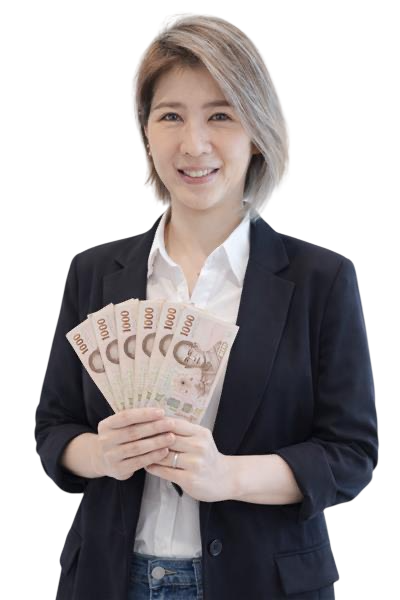
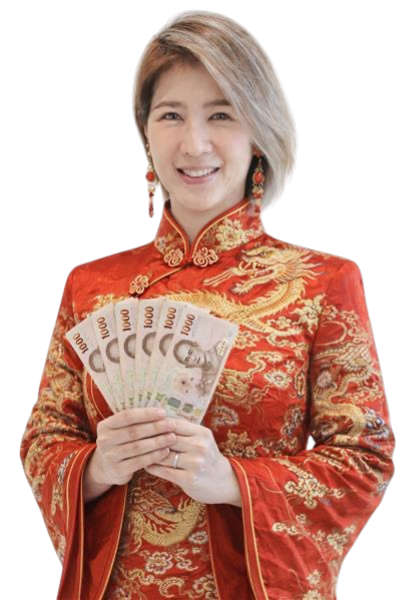
feat: update UI

diff --git a/src/pages/Home.tsx b/src/pages/Home.tsx
@@ -160,7 +160,7 @@ export function Home() {
   if (!isLoggedIn) {
     return (
       <div className="relative flex flex-col items-center justify-center min-h-screen p-4 py-16 overflow-hidden">
-        {/* Background images bottom-right */}
+        {/* Desktop: absolute positioned */}
         <img
           src="/S__35012639.png"
           alt=""
@@ -178,13 +178,17 @@ export function Home() {
             style={{ objectFit: 'cover', objectPosition: 'top', transform: 'scaleX(-1)' }}
           />
         </div>
-        {/* Background image bottom-left */}
-        <img
-          src="/S__35012641.png"
-          alt=""
-          className="absolute bottom-0 hidden pointer-events-none select-none md:block"
-          style={{ objectFit: 'contain', left: '2%', width: 'clamp(200px, 38vw, 1200px)' }}
-        />
+        <div
+          className="absolute bottom-0 hidden overflow-hidden pointer-events-none select-none md:block"
+          style={{ left: '2%', width: 'clamp(300px, 50vw, 1500px)', height: 'clamp(240px, 38vw, 1100px)' }}
+        >
+          <img
+            src="/S__35012641.png"
+            alt=""
+            className="w-full"
+            style={{ objectFit: 'cover', objectPosition: 'top' }}
+          />
+        </div>
 
         {isDemoMode && (
           <div className="fixed top-4 left-1/2 -translate-x-1/2 px-4 py-1.5 rounded-full bg-yellow-500/10 border border-yellow-500/20 z-40">
@@ -199,11 +203,26 @@ export function Home() {
           <p className="text-base font-medium text-white/90">ดวงดีได้เงิน ดวงเฮงได้คำอวยพร จากพี่มะนาว พี่นิโคล และพี่ตั้ม</p>
         </div>
 
-        <EmployeeForm
-          onSubmit={enterAsEmployee}
-          onAdminLogin={loginAdmin}
-          loading={authLoading}
-        />
+        {/* Mobile: 3 images above form */}
+        <div className="relative z-10 flex items-end justify-center w-full max-w-md mb-[-10px] overflow-hidden pointer-events-none select-none md:hidden">
+          <div className="w-[30%] overflow-hidden h-[20vw] flex-shrink-0 mr-1">
+            <img src="/S__35012641.png" alt="" className="object-cover object-top w-full h-full" style={{ transform: 'scale(1.1)', transformOrigin: 'top center' }} />
+          </div>
+          <div className="w-[30%] overflow-hidden h-[24vw] flex-shrink-0">
+            <img src="/S__35020802.png" alt="" className="object-cover object-top w-full h-full" style={{ transform: 'scaleX(-1)', transformOrigin: 'top center' }} />
+          </div>
+          <div className="w-[18%] overflow-hidden h-[20vw] flex-shrink-0 ml-1">
+            <img src="/S__35012639.png" alt="" className="object-cover object-top w-full h-full" />
+          </div>
+        </div>
+
+        <div className="relative z-10">
+          <EmployeeForm
+            onSubmit={enterAsEmployee}
+            onAdminLogin={loginAdmin}
+            loading={authLoading}
+          />
+        </div>
 
         {isDemoMode && (
           <div className="relative z-10 mt-8 space-y-3 text-center">

diff --git a/src/components/PrizePopup.tsx b/src/components/PrizePopup.tsx
@@ -343,6 +343,14 @@ export function PrizePopup({ prize, onClaim, onDonate, donating }: PrizePopupPro
             ) : prize.is_donatable && !showDonateForm ? (
               /* Donate confirmation - ถามก่อนรับรางวัลเสมอ */
               <div className="space-y-3">
+                <div className="relative p-3 mb-3 overflow-hidden bg-white rounded-2xl">
+                  <div className="absolute inset-0 bg-gradient-to-r from-pink-200/50 via-white to-pink-200/50 animate-pulse" />
+                  <div className="relative flex justify-center gap-2">
+                    <img src="/S__35037232.jpg" alt="" className="object-cover flex-1 h-24 min-w-0 transition-transform duration-300 border-2 shadow-md rounded-xl border-pink-400/40 hover:scale-105 hover:shadow-pink-400/30" />
+                    <img src="/S__35037230_0.png" alt="" className="object-cover flex-1 h-24 min-w-0 transition-transform duration-300 border-2 shadow-md rounded-xl border-pink-400/40 hover:scale-105 hover:shadow-pink-400/30" />
+                    <img src="/S__35037229_0.jpg" alt="" className="object-cover flex-1 h-24 min-w-0 transition-transform duration-300 border-2 shadow-md rounded-xl border-pink-400/40 hover:scale-105 hover:shadow-pink-400/30" />
+                  </div>
+                </div>
                 <div className="p-4 text-left rounded-xl" style={{
                   background: 'rgba(236, 72, 153, 0.08)',
                   border: '1px solid rgba(236, 72, 153, 0.15)',
